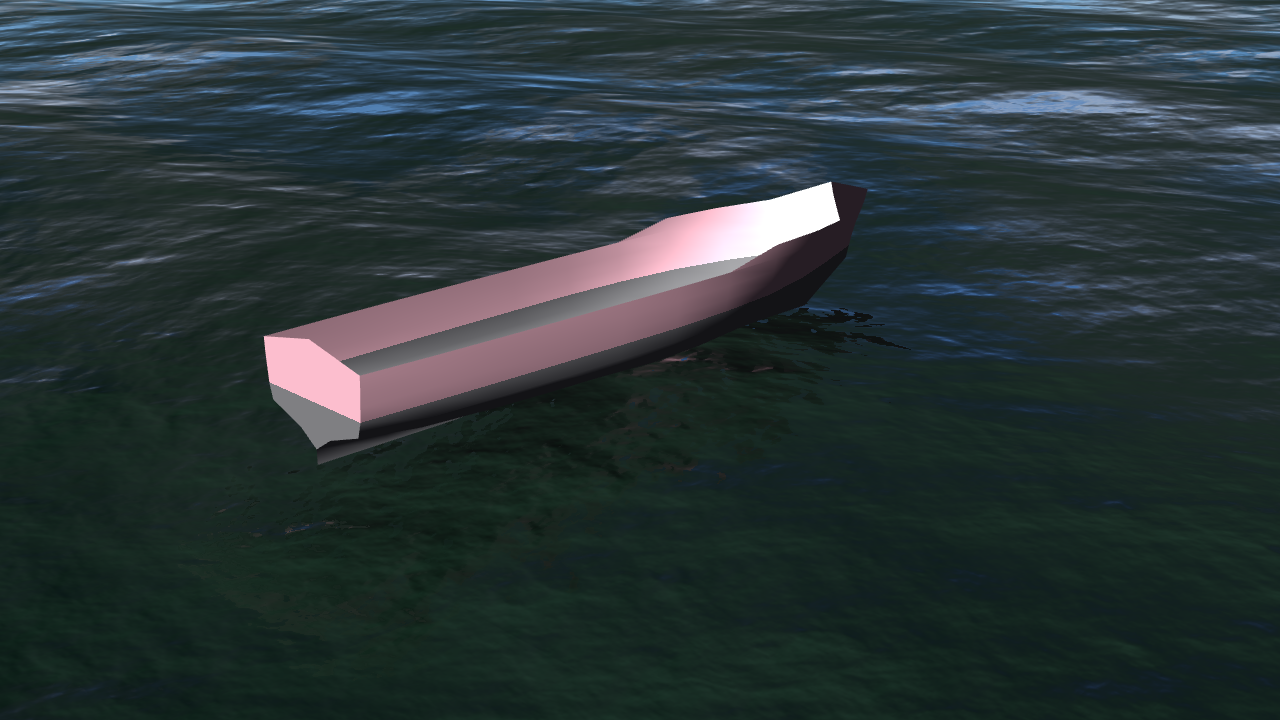
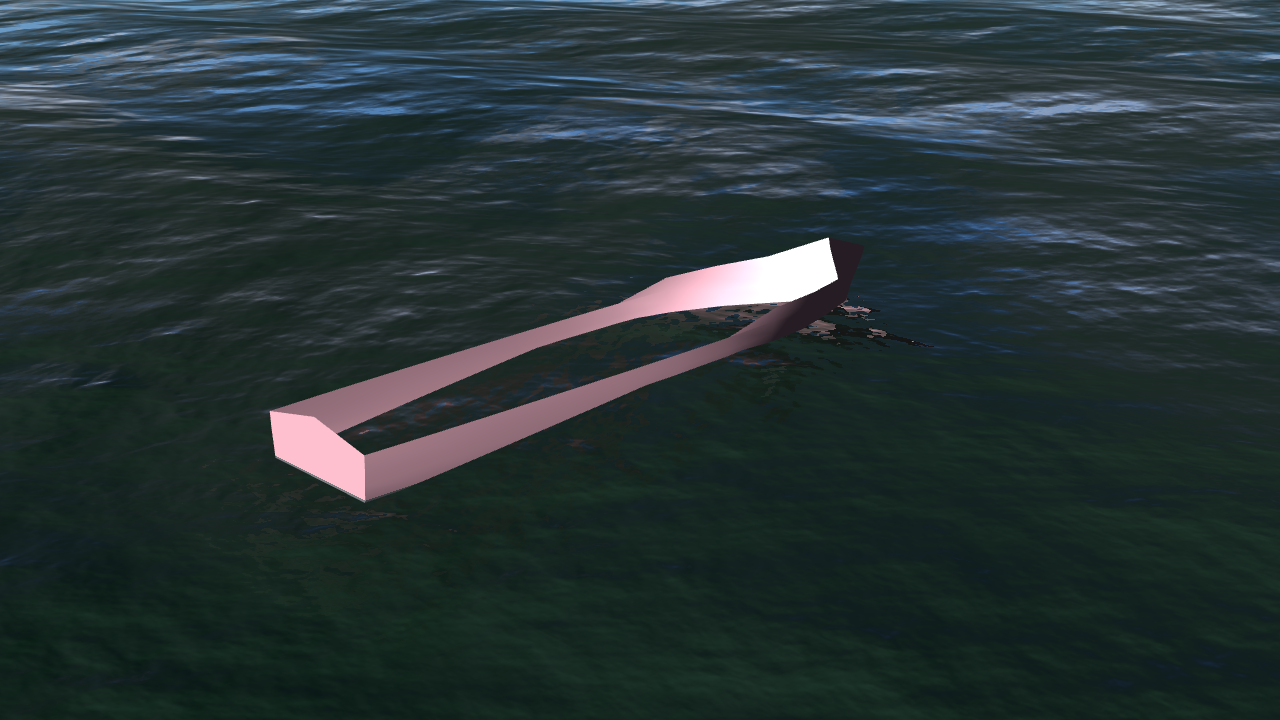
Apply design draft offset: ship now properly submerged to waterline

diff --git a/public/vesseljs/examples/vessel_simulation.html b/public/vesseljs/examples/vessel_simulation.html
@@ -167,6 +167,8 @@
         if (ship3D.decks) ship3D.decks.visible = false;
         if (ship3D.bulkheads) ship3D.bulkheads.visible = false;
         if (ship3D.blocks) ship3D.blocks.visible = false;
+        // Get actual draft from Ship3D (calculated by Vessel.js stability)
+        shipDraft = -ship3D.position.z || 6.5;
         zUpCont.add(ship3D);
 
         // Ghost reference ship: outer hull wireframe only, at calm water attitude
@@ -260,13 +262,13 @@
                 var driftRad = (lastDriftAngle || 0) * Math.PI / 180;
                 ship3D.rotation.z = -driftRad;
                 ship3D.position.x = (lastLateralDrift || 0) * Math.sin(tSec * 0.3);
-                ship3D.position.z = baseHeave;
+                ship3D.position.z = -shipDraft + baseHeave;
                 ship3D.rotation.y = basePitch;
                 ship3D.rotation.x = baseRoll;
               } else if (activeLevel === 'lvl3') {
                 // Level 3: Wind Heel — exact heel angle + wave motion
                 var windHeelRad = (lastWindHeel || 0) * Math.PI / 180;
-                ship3D.position.z = baseHeave;
+                ship3D.position.z = -shipDraft + baseHeave;
                 ship3D.rotation.y = basePitch;
                 ship3D.rotation.x = baseRoll + windHeelRad;
                 ship3D.rotation.z = 0;
@@ -275,14 +277,14 @@
                 // Level 4: Speed Loss — slower encounter from resistance
                 var lossFrac = (lastSpeedLoss || 0) / 100;
                 var slowFreq = encounterFreq * Math.max(1 - lossFrac, 0.5);
-                ship3D.position.z = motion.heaveAmp * Math.cos(slowFreq * tSec);
+                ship3D.position.z = -shipDraft + motion.heaveAmp * Math.cos(slowFreq * tSec);
                 ship3D.rotation.y = motion.pitchAmp * Math.sin(slowFreq * tSec);
                 ship3D.rotation.x = (rollAmp || 0) * Math.sin(slowFreq * tSec * 0.7);
                 ship3D.rotation.z = 0;
                 ship3D.position.x = 0;
               } else {
                 // Level 1 (default): Pure seakeeping from RAO
-                ship3D.position.z = baseHeave;
+                ship3D.position.z = -shipDraft + baseHeave;
                 ship3D.rotation.y = basePitch;
                 ship3D.rotation.x = baseRoll;
                 ship3D.rotation.z = 0;
@@ -291,7 +293,7 @@
             }
           } catch(e) {
             // Fallback gentle motion
-            ship3D.position.z = waveAmplitude * Math.cos(tSec * 0.8);
+            ship3D.position.z = -shipDraft + waveAmplitude * Math.cos(tSec * 0.8);
             ship3D.rotation.y = 0.015 * Math.sin(tSec * 0.5);
           }
         }
